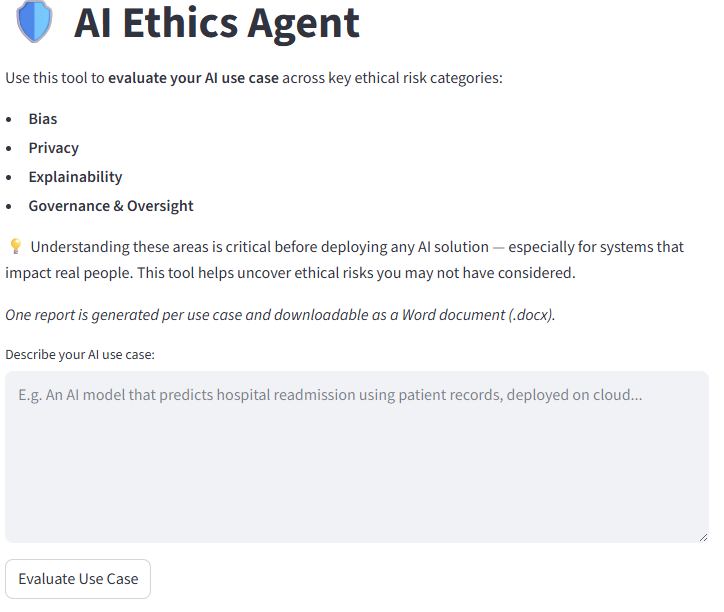
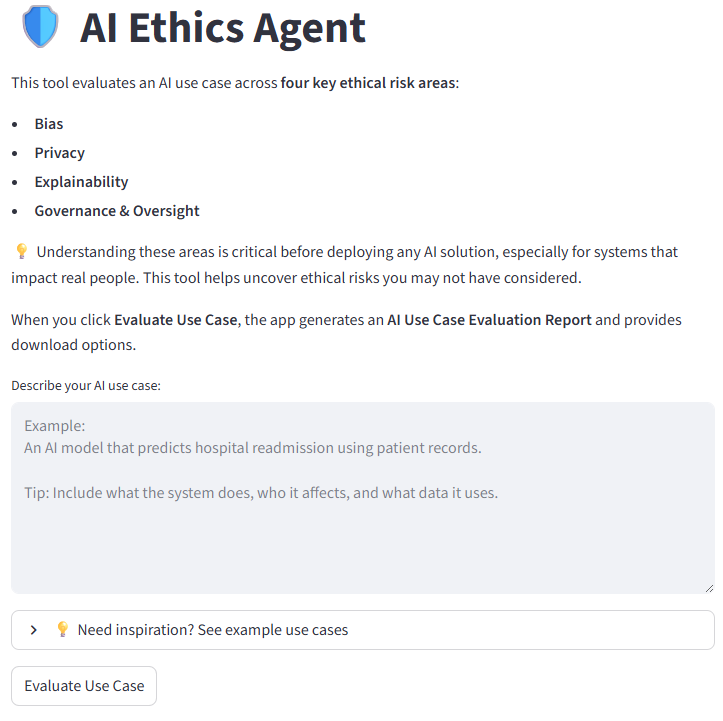
updated use case examples and screenshot of app frontend

Changed region(s): [[0.0, 0.0, 0.9433, 0.7141], [0.0, 0.8693, 0.4869, 0.9624]]

diff --git a/streamlit_app.py b/streamlit_app.py
@@ -93,17 +93,28 @@ When you click **Evaluate Use Case**, the app generates an **AI Use Case Evaluat
 user_input = st.text_area(
     "Describe your AI use case:",
     placeholder=(
-        "E.g.\n"
-        "1. An AI model that predicts hospital readmission using patient records, deployed on cloud.\n"
-        "2. A chatbot that provides mental health support to teenagers via a mobile app.\n"
-        "3. A facial recognition system used for access control in a corporate office.\n"
-        "\n"
-        "Full Example:\n"
-        "A machine learning system that analyzes loan applications to predict credit risk. The model uses demographic, financial, and behavioral data, and is integrated into an online banking platform to automate loan approvals."
+        "Example:\n"
+        "An AI model that predicts hospital readmission using patient records.\n\n"
+        "Tip: Include what the system does, who it affects, and what data it uses."
     ),
-    height=250,
+    height=220,
     key="use_case_input"
 )
+
+with st.expander("💡 Need inspiration? See example use cases"):
+    st.markdown(
+        """
+        **Additional examples:**
+        - A chatbot that provides mental health support to teenagers via a mobile app.
+        - A facial recognition system used for access control in a corporate office.
+
+        **Full example:**
+        A machine learning system that analyzes loan applications to predict credit risk.
+        The model uses demographic, financial, and behavioral data and is integrated
+        into an online banking platform to automate loan approvals.
+        """
+    )
+
 
 if st.button("Evaluate Use Case"):
     if not user_input.strip():
